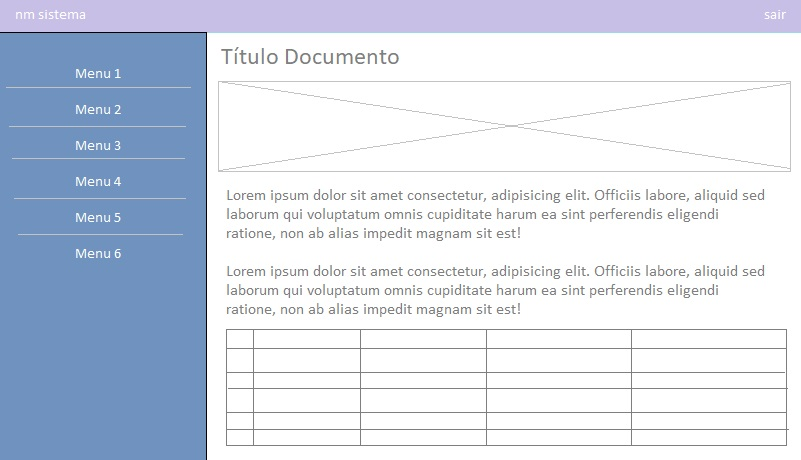
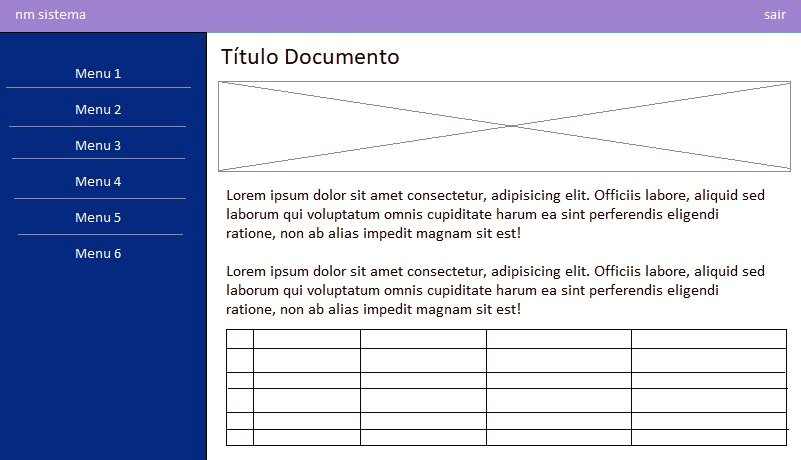
atualizacoes

diff --git a/css/estilo.css b/css/estilo.css
@@ -20,7 +20,6 @@ body {
     width: 100%;
     position: fixed;
     padding: 10px;
-    display: none;
 }
 
 #container header h1 {
@@ -49,6 +48,10 @@ body {
     width: 250px;
     float: left;
     margin-right: 15px;
+}
+
+table {
+    border: 1px solid #000;
 }
 
 #sidebar ul {

diff --git a/css/index.html b/css/index.html
@@ -18,7 +18,7 @@
             </div>
         </header>
 
-        <section id="content">
+        <section id="content" style="clear: both;">
 
             <section id="sidebar">
                 <ul>
